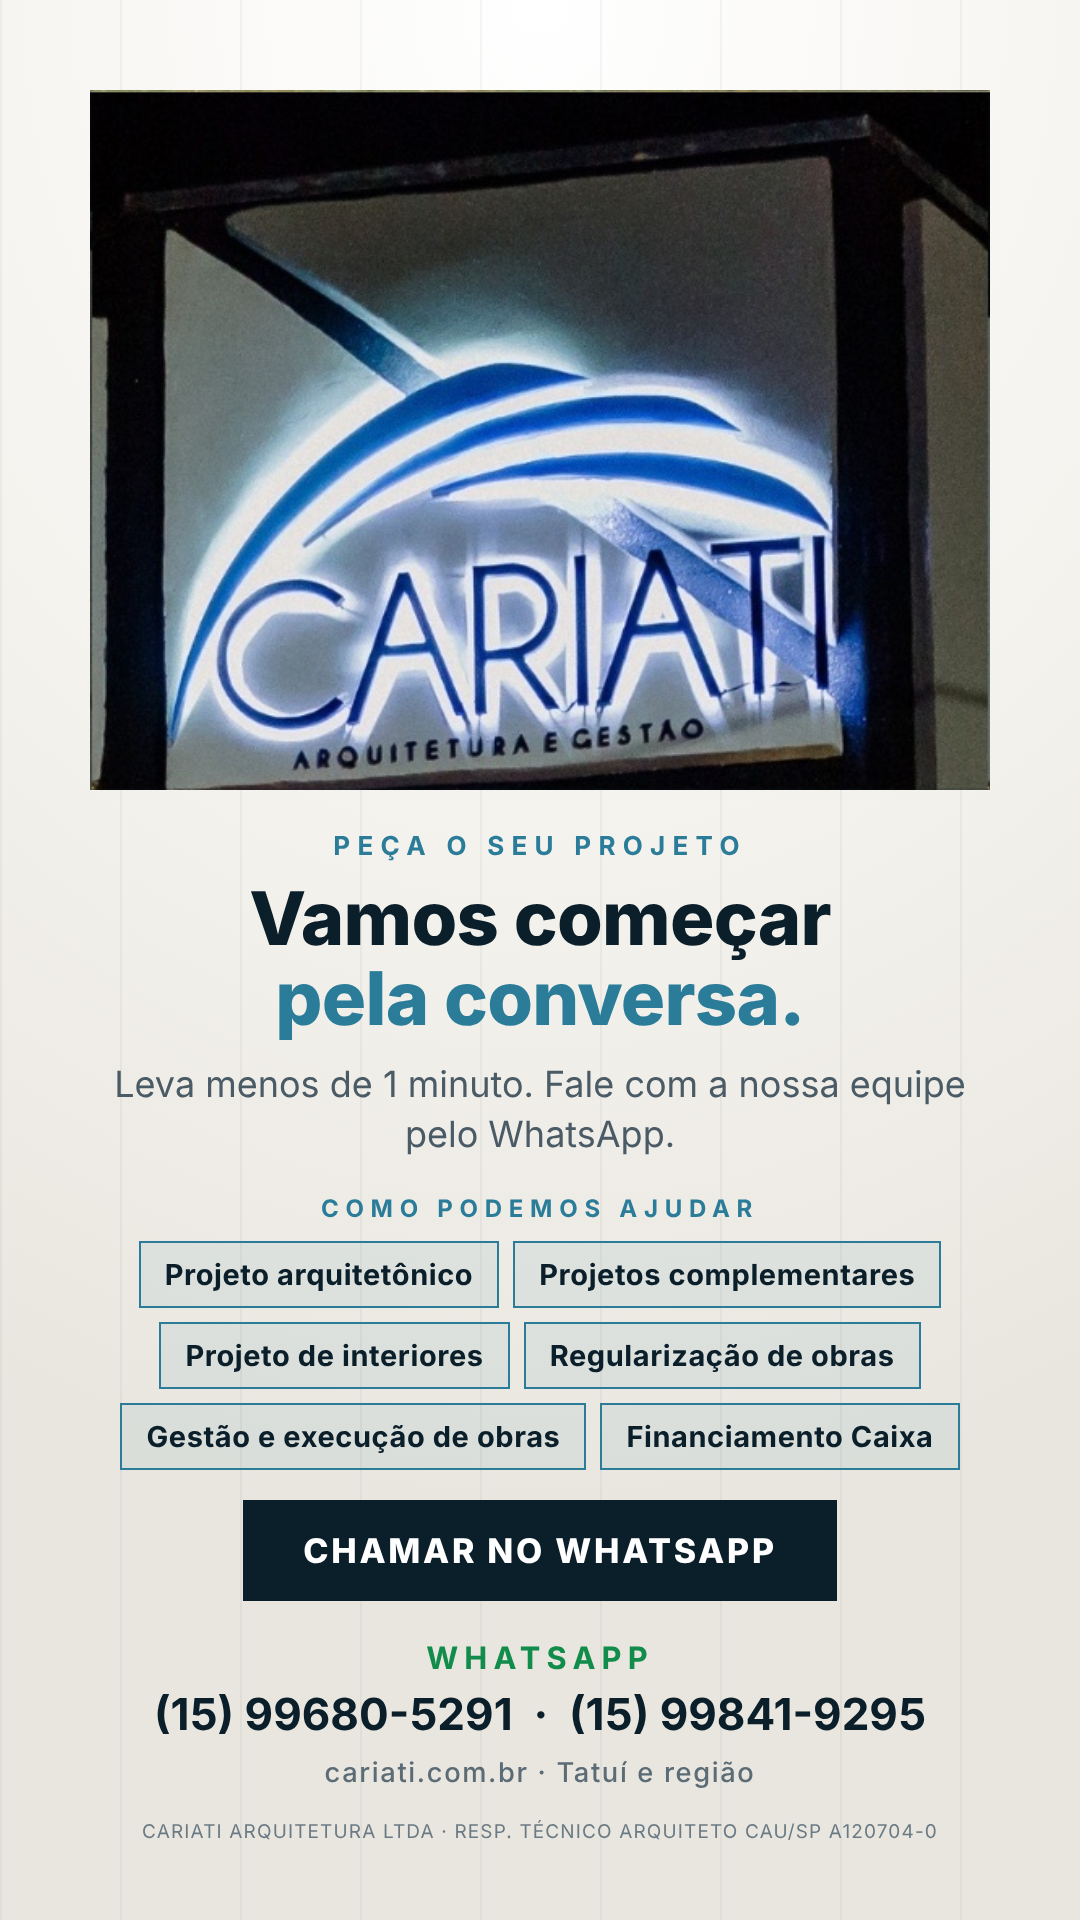
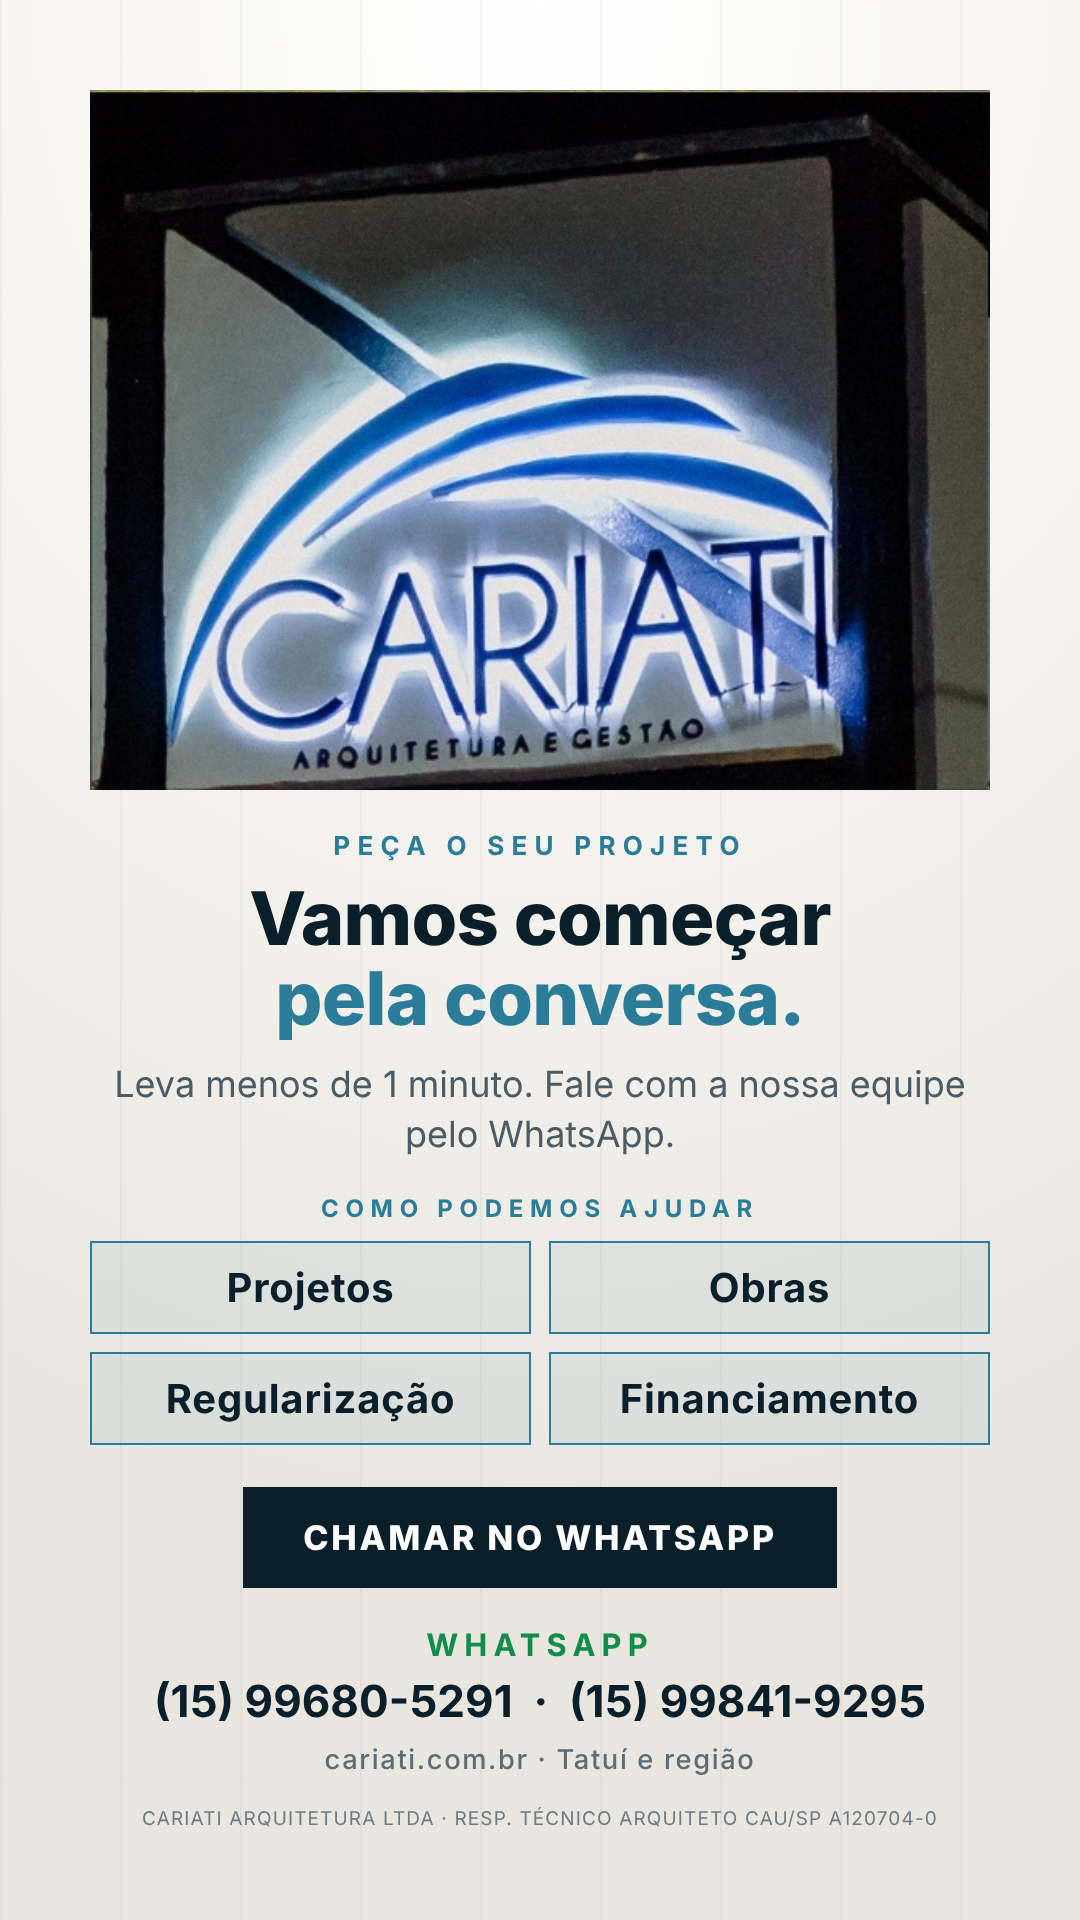
Flyer 04: simplify hook to Projetos, Obras, Regularização, Financiamento (2x2)
Claude-Session: https://claude.ai/code/session_012W4cPJrLBDcgKi33Cw4yCm

Changed region(s): [[0.1222, 0.6562, 0.8556, 0.9688], [0.8861, 0.6875, 0.9167, 0.7188]]

diff --git a/flyers_cariati/build.py b/flyers_cariati/build.py
@@ -27,9 +27,8 @@ h1 em{font-style:normal;color:#5fc1e3}
 .stat b{font-size:var(--big);font-weight:800;line-height:1}
 .stat b i{font-style:normal;color:#5fc1e3}
 .stat span{font-weight:800;letter-spacing:.3em;font-size:calc(var(--big)*.18)}
-.chips{display:flex;flex-wrap:wrap;justify-content:center;gap:var(--chg)}
-.chip{border:2px solid rgba(95,193,227,.6);color:#fff;font-weight:700;font-size:var(--chf);padding:var(--chp);letter-spacing:.02em;background:rgba(95,193,227,.08)}
-.chips.l{justify-content:flex-start}
+.chips{display:grid;grid-template-columns:1fr 1fr;gap:var(--chg)}
+.chip{border:2px solid rgba(95,193,227,.6);color:#fff;font-weight:700;font-size:var(--chf);padding:var(--chp);letter-spacing:.02em;text-align:center;background:rgba(95,193,227,.08)}
 .grid3{display:grid;grid-template-columns:1fr 1fr 1fr;gap:var(--g3)}
 .card{background:rgba(255,255,255,.05);border-top:4px solid #5fc1e3;padding:var(--cd)}
 .card .l{font-size:var(--cl);font-weight:800;color:#5fc1e3}
@@ -65,13 +64,13 @@ PH=mkph('(15) 99841-9295')
 PH2=mkph('(15) 99841-9295')
 FOOT='<div class="foot z">CARIATI ARQUITETURA LTDA · RESP. TÉCNICO ARQUITETO CAU/SP A120704-0</div>'
 V=dict(w=1080,h=1920)
-VV=dict(p="90px",lh="190px",e="26px",h1="74px",s="36px",g="36px",c="34px",cp="30px 60px",t="44px",fs="19px",ls="42px",lg="30px",big="260px",chg="14px",chf="29px",chp="14px 24px",g3="22px",cd="26px",cl="30px",ch="38px",cp2="27px")
-SQ=dict(p="64px",lh="140px",e="21px",h1="64px",s="28px",g="26px",c="27px",cp="22px 46px",t="34px",fs="15px",ls="35px",lg="24px",big="150px",chg="8px",chf="19px",chp="8px 14px",g3="16px",cd="22px",cl="26px",ch="32px",cp2="23px")
+VV=dict(p="90px",lh="190px",e="26px",h1="74px",s="36px",g="36px",c="34px",cp="30px 60px",t="44px",fs="19px",ls="42px",lg="30px",big="260px",chg="18px",chf="40px",chp="20px 20px",g3="22px",cd="26px",cl="30px",ch="38px",cp2="27px")
+SQ=dict(p="64px",lh="140px",e="21px",h1="64px",s="28px",g="26px",c="27px",cp="22px 46px",t="34px",fs="15px",ls="35px",lg="24px",big="150px",chg="10px",chf="25px",chp="11px 10px",g3="16px",cd="22px",cl="26px",ch="32px",cp2="23px")
 def photo(img,h,pos="center"):
     return f"<div class='photo z' style=\"flex:none;height:{h}px;background-image:url('assets/{img}');background-position:{pos}\"></div>"
 def sp(n): return f"<div style='height:{n}px;flex:none'></div>"
 def flex(): return "<div style='flex:1'></div>"
-SERV=["Projeto arquitetônico","Projetos complementares","Projeto de interiores","Regularização de obras","Gestão e execução de obras","Financiamento Caixa"]
+SERV=["Projetos","Obras","Regularização","Financiamento"]
 def chips(extra=''): return f'<div class="chips z {extra}">'+''.join(f'<span class=chip>{x}</span>' for x in SERV)+'</div>'
 F={}
 # 1 tudo em um só lugar
